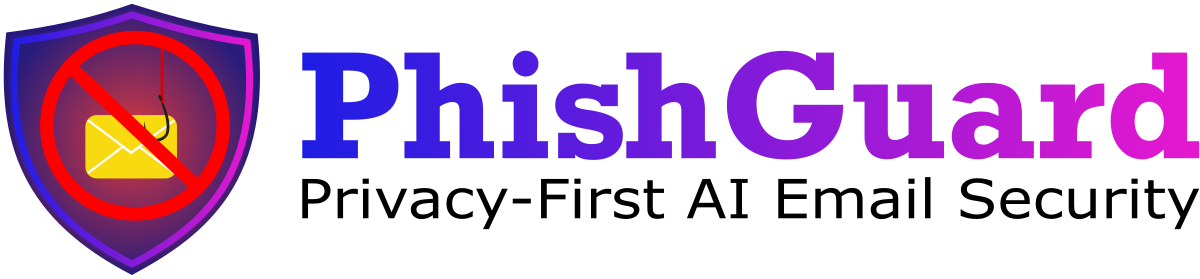
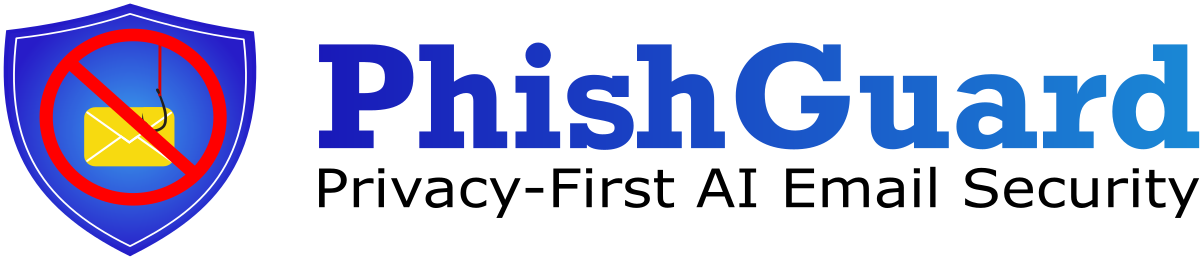
Updated Design Elements

diff --git a/src/messageDisplay/inject.js b/src/messageDisplay/inject.js
@@ -12,65 +12,34 @@
   panel.innerHTML = `
     <div class="pg-header">
       <div class="pg-brand">
-        <svg viewBox="0 0 300 300" fill="none">
-          <!-- PhishGuard logo - Full color version for light background -->
+        <svg viewBox="0 50 155 160" fill="none" xmlns="http://www.w3.org/2000/svg">
           <defs>
-            <linearGradient id="panelShield" x1="0%" y1="0%" x2="0%" y2="100%">
-              <stop offset="0%" style="stop-color:#60a5fa;stop-opacity:1" />
-              <stop offset="100%" style="stop-color:#3b82f6;stop-opacity:1" />
-            </linearGradient>
+            <radialGradient id="shieldGrad" cx="77" cy="130" r="80" gradientUnits="userSpaceOnUse">
+              <stop offset="0" stop-color="#37a1ee"/>
+              <stop offset="1" stop-color="#2418c7"/>
+            </radialGradient>
           </defs>
-          <!-- Shield with gradient -->
-          <path d="M 150 30 
-                   L 240 70 
-                   L 240 160 
-                   Q 240 225 150 270 
-                   Q 60 225 60 160 
-                   L 60 70 
-                   Z" 
-                fill="url(#panelShield)" 
-                opacity="0.95"/>
-          <!-- Inner shield detail -->
-          <path d="M 150 45 
-                   L 230 80 
-                   L 230 160 
-                   Q 230 218 150 258 
-                   Q 70 218 70 160 
-                   L 70 80 
-                   Z" 
-                fill="none" 
-                stroke="rgba(255,255,255,0.4)"
-                stroke-width="2"/>
-          <!-- Fishing hook (red) -->
-          <path d="M 205 100 
-                   Q 205 88 213 88 
-                   Q 221 88 221 100 
-                   L 221 125 
-                   Q 221 133 216 133 
-                   Q 213 133 212 131 
-                   L 215 138" 
-                fill="none" 
-                stroke="#ef4444" 
-                stroke-width="5" 
-                stroke-linecap="round"/>
-          <!-- Fishing line -->
-          <line x1="213" y1="88" x2="213" y2="55" 
-                stroke="#ef4444" 
-                stroke-width="2" 
-                opacity="0.6"
-                stroke-dasharray="4,4"/>
-          <!-- Block line (white) -->
-          <line x1="195" y1="90" x2="230" y2="145" 
-                stroke="#ffffff" 
-                stroke-width="11" 
-                stroke-linecap="round"/>
-          <!-- Check mark (white) -->
-          <path d="M 100 160 L 130 190 L 185 120" 
-                fill="none" 
-                stroke="#ffffff" 
-                stroke-width="13" 
-                stroke-linecap="round" 
-                stroke-linejoin="round"/>
+          <!-- Shield fill -->
+          <path d="M8.5 75.3c24-2.9 47-7.9 68.3-15.5 22 7 44.3 13 68.3 16.2 8.9 79.9-26.4 109.5-68.3 131.4C18.6 177.5 1.6 137 8.5 75.3z" fill="url(#shieldGrad)" opacity="0.98"/>
+          <!-- Shield white border -->
+          <path d="M15 80.8c21.7-2.6 42.5-7.2 61.8-14 19.9 6.4 40.2 12 61.9 14.9 8 72-24.3 98.6-61.9 118.5-52.7-27-68-63.3-61.8-119.4z" fill="none" stroke="#ffffff" stroke-width="1" stroke-linecap="round" stroke-linejoin="round"/>
+          <!-- Email envelope body -->
+          <rect x="52" y="120" width="49" height="34" rx="6" fill="#f7da10"/>
+          <!-- Email envelope flap triangle -->
+          <path d="M84.3 120.5h10.2l-5.1 5.5-12 3.8z" fill="#f7da10"/>
+          <!-- Email envelope lines -->
+          <g stroke="#ffffff" stroke-width="1.2" stroke-linecap="round" fill="none">
+            <path d="M64.6 128.8l11.5 8.7 11.4-8.6"/>
+            <path d="M64.5 142.9l9.3-7 2.2 1.7 2.2-1.6 9.4 7.1"/>
+          </g>
+          <!-- Fishing hook -->
+          <path d="M91.4 109.8c-.1 0-.3.1-.3.2-.5.9.9 2.4 1.1 3 .9 2.4 3.1 8.8 3.2 12.6.1 2-.2 4.4-1.2 5.8-1.6 1.7-4.6 2.4-6.8 1.5-1.4-.6-2.1-2.1-2.6-3.6.4-.2 1.4.7 1.9.7l-2.3-1.8v-.1c-.5-1.4-.5-4.5-.5-4.5s-.7 3.3-.3 4.9c.6 2.3 1.5 5.2 3.7 6 2.7 1 6.3-.2 8.2-2.3 1.7-1.8 1.6-4.7 1.5-7.1-.2-3.8-2.7-10.2-3.7-12.5-.2-.5-.2-2.3-1.1-2.8-.2-.1-.5-.1-.7 0z" fill="#241f1c"/>
+          <!-- Hook line (red) -->
+          <path d="M92.3 82.2v31.1l1.6.5V82.2z" fill="#de0000"/>
+          <!-- Red circle (no phishing) -->
+          <circle cx="78.5" cy="126.2" r="47.3" fill="none" stroke="#ff0000" stroke-width="7.2" stroke-linecap="round"/>
+          <!-- Red diagonal slash -->
+          <path d="M44.2 95l66.9 63.1" fill="none" stroke="#ff0000" stroke-width="7.2" stroke-linecap="round"/>
         </svg>
         <span class="pg-brand-text">PhishGuard</span>
         <div class="pg-status loading" id="pgStatus"></div>
@@ -286,10 +255,35 @@
     setAuth('pgDkim', auth.dkim?.status);
     setAuth('pgDmarc', auth.dmarc?.status);
 
-    document.getElementById('pgReasons').innerHTML = 
-      (result.reasons || []).slice(0, 4).map(r => `<li>${esc(r)}</li>`).join('') || '<li>No issues</li>';
-    document.getElementById('pgActions').innerHTML = 
-      (result.next_steps || []).slice(0, 3).map(a => `<li>${esc(a)}</li>`).join('') || '<li>None</li>';
+    const reasonsEl = document.getElementById('pgReasons');
+    reasonsEl.textContent = '';
+    const reasons = (result.reasons || []).slice(0, 4);
+    if (reasons.length === 0) {
+      const li = document.createElement('li');
+      li.textContent = 'No issues';
+      reasonsEl.appendChild(li);
+    } else {
+      reasons.forEach(r => {
+        const li = document.createElement('li');
+        li.textContent = r;
+        reasonsEl.appendChild(li);
+      });
+    }
+
+    const actionsEl = document.getElementById('pgActions');
+    actionsEl.textContent = '';
+    const actions = (result.next_steps || []).slice(0, 3);
+    if (actions.length === 0) {
+      const li = document.createElement('li');
+      li.textContent = 'None';
+      actionsEl.appendChild(li);
+    } else {
+      actions.forEach(a => {
+        const li = document.createElement('li');
+        li.textContent = a;
+        actionsEl.appendChild(li);
+      });
+    }
 
     idleEl.style.display = 'none';
     loadingEl.style.display = 'none';
@@ -304,12 +298,6 @@
     s = (s || 'unknown').toLowerCase();
     el.textContent = s.toUpperCase();
     el.className = s === 'pass' ? 'pass' : s === 'fail' ? 'fail' : 'unknown';
-  }
-
-  function esc(t) {
-    const d = document.createElement('div');
-    d.textContent = t || '';
-    return d.innerHTML;
   }
 
   function process(state) {
